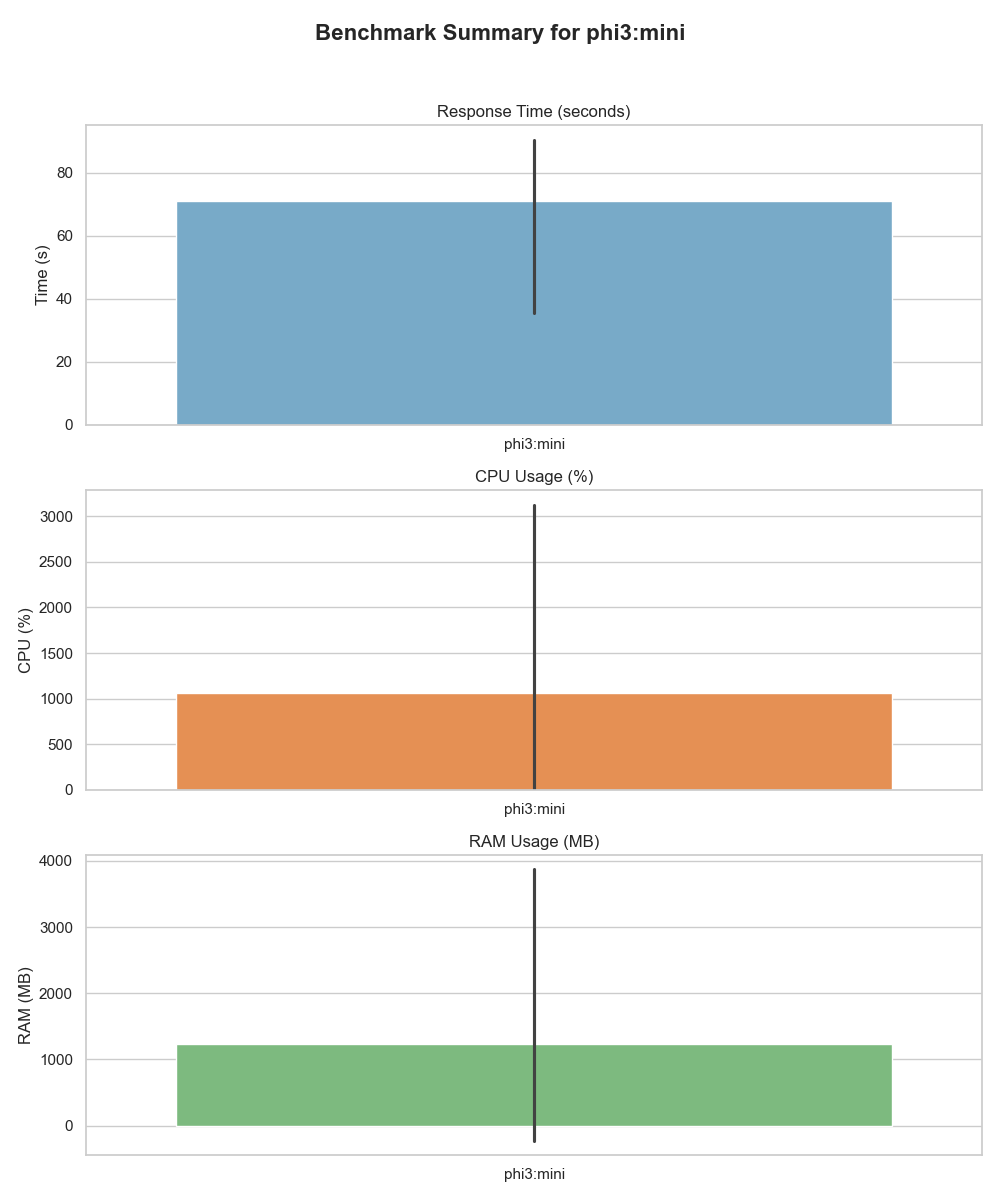
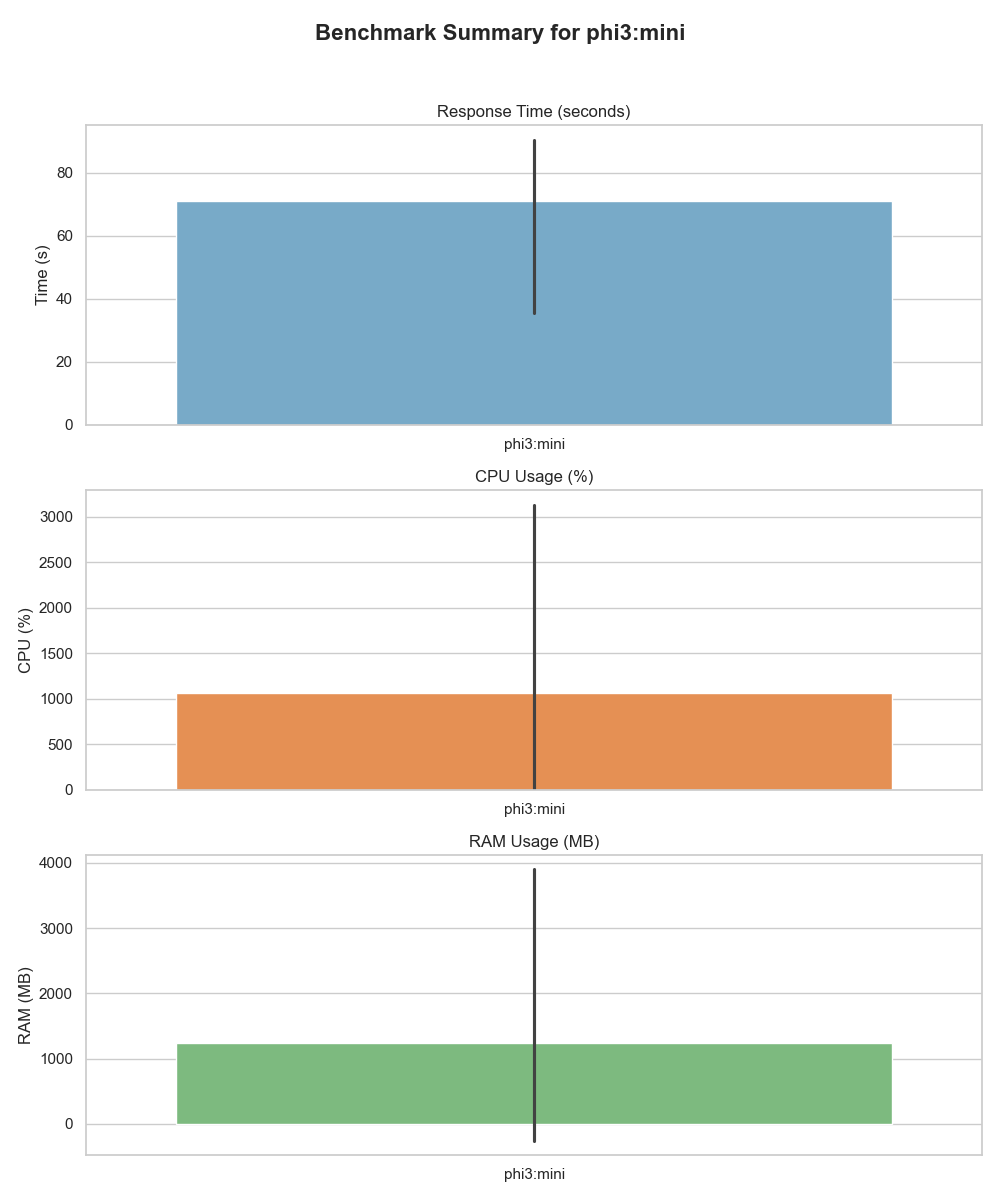
Benchmarked gemma:2b and updated graphs and outputs

Changed region(s): [[0.031, 0.7092, 0.062, 0.74], [0.031, 0.4625, 0.062, 0.4933]]

diff --git a/src/benchmark.py b/src/benchmark.py
@@ -29,50 +29,44 @@ def run_inference(model_name):
 
     return collected
 
-def get_docker_stats(container_name="ollama"):
-    """Returns RAM (MB) and CPU (%) usage of a Docker container."""
+def get_docker_mem_usage(container_name="ollama"):
+    """Return memory usage (MB) of a Docker container."""
     try:
         result = subprocess.check_output(
             ["docker", "stats", container_name, "--no-stream", "--format", "{{json .}}"]
         )
         stats = json.loads(result.decode())
-
-        # Parse memory
-        mem_usage_raw = stats["MemUsage"].split('/')[0].strip()
-        if "MiB" in mem_usage_raw:
-            mem_mb = float(mem_usage_raw.replace("MiB", "").strip())
-        elif "GiB" in mem_usage_raw:
-            mem_mb = float(mem_usage_raw.replace("GiB", "").strip()) * 1024
+        mem_usage = stats["MemUsage"].split('/')[0].strip()  # e.g., "88.77MiB"
+        if "MiB" in mem_usage:
+            return float(mem_usage.replace("MiB", "").strip())
+        elif "GiB" in mem_usage:
+            return float(mem_usage.replace("GiB", "").strip()) * 1024
         else:
-            mem_mb = 0.0
-
-        # Parse CPU
-        cpu_str = stats["CPUPerc"].replace("%", "").strip()
-        cpu_percent = float(cpu_str)
-
-        return mem_mb, cpu_percent
+            return 0.0
     except Exception as e:
-        print(f"[!] Failed to get Docker stats: {e}")
-        return 0.0, 0.0
+        print(f"[!] Failed to get Docker memory usage: {e}")
+        return 0.0
 
 def benchmark_model(model_name):
     start_time = time.time()
-    mem_before, cpu_before = get_docker_stats()
+    mem_before = get_docker_mem_usage("ollama")
 
     output = run_inference(model_name)
 
-    mem_after, cpu_after = get_docker_stats()
+    mem_after = get_docker_mem_usage("ollama")
     end_time = time.time()
 
-    ram_used = max(0.0, round(mem_after - mem_before, 2))
-    cpu_used = max(0.0, round(cpu_after - cpu_before, 2))
+    # Calculate the change in RAM, ensuring it's not negative
+    # If mem_after < mem_before, it means memory was released or fluctuated down,
+    # in which case the "additional usage" for the inference is considered 0.
+    ram_delta = mem_after - mem_before
+    effective_ram_used = max(0.0, round(ram_delta, 2)) # Ensure non-negative
 
     metrics = {
         "timestamp": datetime.now().strftime("%Y-%m-%d %H:%M:%S"),
         "model": model_name,
         "response_time_sec": round(end_time - start_time, 2),
-        "cpu_percent_used": cpu_used,
-        "ram_used_mb": ram_used
+        "ram_used_mb": effective_ram_used
     }
 
     return output, metrics
@@ -80,7 +74,7 @@ def benchmark_model(model_name):
 def save_results(metrics, output, output_dir="data/processed"):
     os.makedirs(output_dir, exist_ok=True)
 
-    # Save or append to CSV
+    # Save or append to CSV for LLM benchmarks
     csv_file = os.path.join(output_dir, "llm_benchmark_results.csv")
     file_exists = os.path.isfile(csv_file)
 
@@ -90,7 +84,7 @@ def save_results(metrics, output, output_dir="data/processed"):
             writer.writeheader()
         writer.writerow(metrics)
 
-    # Save model output
+    # Save output text
     output_txt = os.path.join(output_dir, f"{metrics['model'].replace(':', '-')}_output.md")
     with open(output_txt, "w") as f:
         f.write(output)
@@ -104,4 +98,3 @@ if __name__ == "__main__":
     output, metrics = benchmark_model(args.model)
     save_results(metrics, output)
     print("[✓] Done. Metrics logged and output saved.")
-

diff --git a/data/processed/mistral_output.md b/data/processed/mistral_output.md
@@ -1,0 +1,15 @@
+ Supervised Learning and Unsupervised Learning are two primary categories of Machine Learning (ML), each with its unique approach to data analysis and problem-solving.
+
+1. **Supervised Learning**: In this type of ML, the model is trained on a labeled dataset, where both input data (features) and output data (labels or targets) are provided. The goal is for the model to learn the mapping function from inputs to outputs based on examples given during training. After training, the model can make predictions on unseen data. Examples of supervised learning include:
+   - Classification problems, where the target variable is a category (e.g., email spam detection or image classification)
+   - Regression problems, where the target variable is a continuous value (e.g., predicting house prices based on features like square footage, number of bedrooms, and location)
+
+Example: Sentiment Analysis – Suppose you have a dataset containing social media posts along with their labels indicating whether they express positive or negative sentiment. A supervised learning model can be trained to classify new, unseen posts based on the learned relationship between the text features (words, phrases, etc.) and the sentiment labels.
+
+2. **Unsupervised Learning**: In this type of ML, the model is trained on an unlabeled dataset, with only input data available. The goal is for the model to discover hidden patterns, structures, or relationships within the data without being explicitly told what to look for. Clustering and Dimensionality Reduction are common tasks in unsupervised learning.
+   - Clustering groups similar instances into clusters (e.g., segmenting customers based on their shopping habits)
+   - Dimensionality Reduction aims to represent the original dataset with fewer features while preserving most of the information (e.g., using Principal Component Analysis (PCA) or t-Distributed Stochastic Neighbor Embedding (t-SNE))
+
+Example: Customer Segmentation – Suppose a company wants to identify different groups of customers based on their purchase history, without knowing beforehand what these groups might look like. An unsupervised learning algorithm like k-means clustering can be used to group similar customers into distinct clusters, which could help the company tailor marketing strategies for each cluster.
+
+In summary, supervised learning is focused on making predictions or classifications based on labeled examples, while unsupervised learning aims to discover hidden patterns and structures within unlabeled data.
